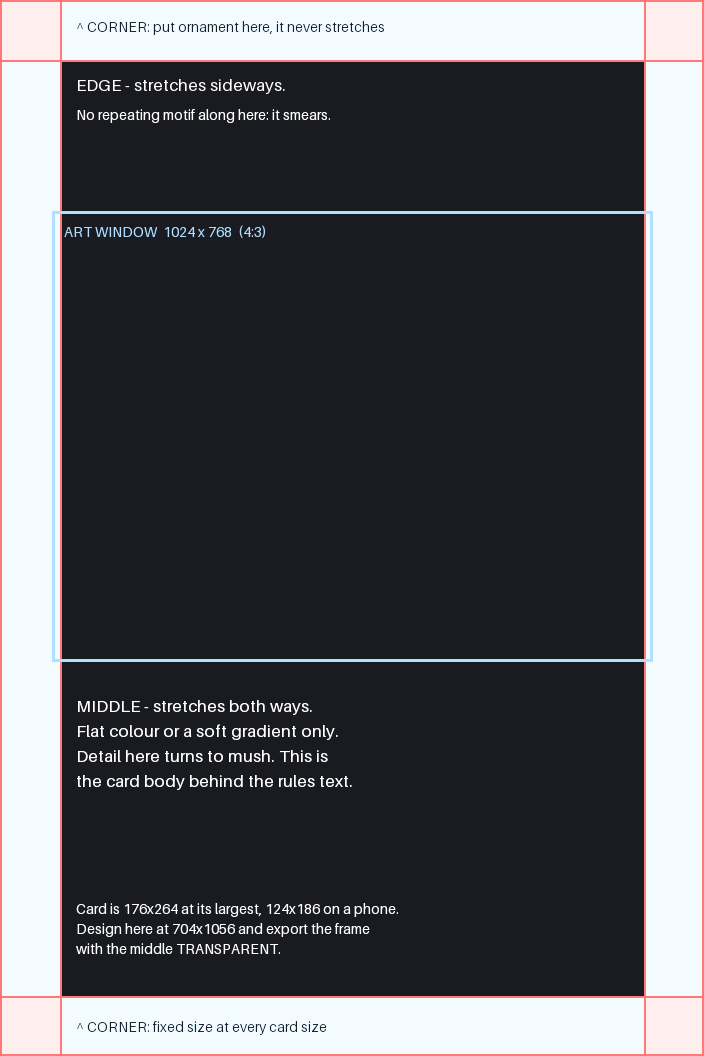
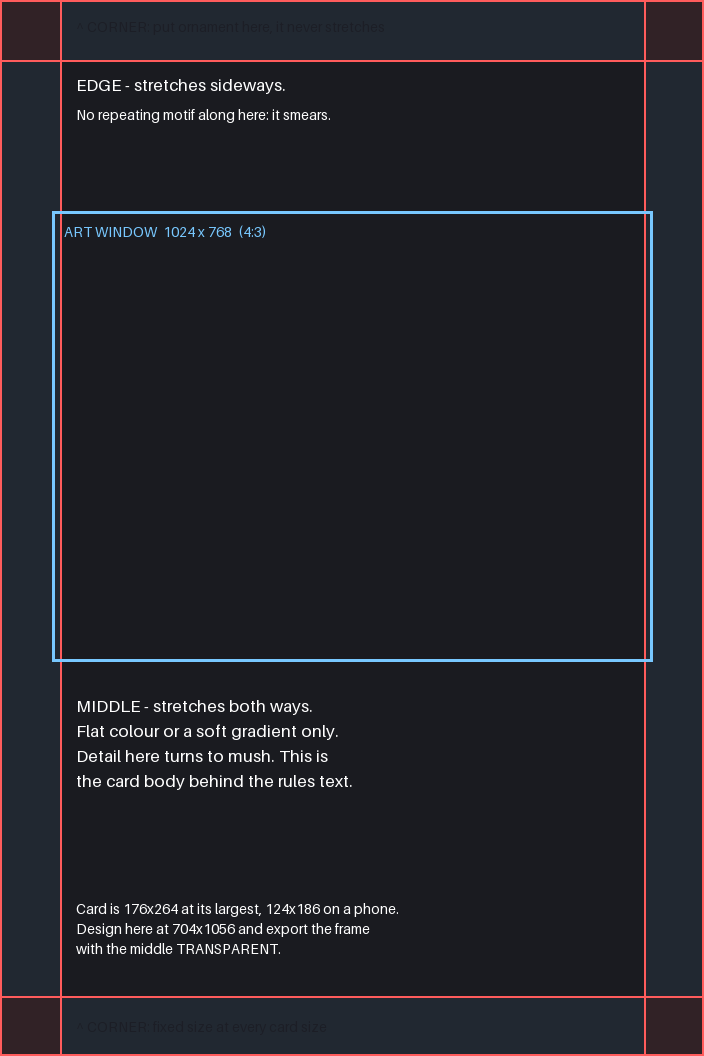
Make the frame template opaque — the "blank space" was transparency, not size
Nick said the template did not fill his canvas. He was told twice that his
canvas was the wrong size: first from the aspect, then from the design's
TITLE, which in Canva is a name generated at creation and does not update on
resize. Both wrong, and the second was reading a name as a live readout.

The actual bug was here. The guide bands were drawn as RGBA with alpha 20 and
26 on the assumption ImageDraw would composite them onto the dark background.
It does not — it writes the value in, alpha included. So the top and bottom of
the template were 92% TRANSPARENT: invisible in a viewer that composites over
white, and in Canva showing the white page through them, which looks exactly
like empty canvas.

Same tints, pre-blended by hand, and the file is flattened to RGB so there is
no transparency anywhere in a guide whose whole job is to show where the edges
are.

Changed region(s): [[0.0, 0.0, 1.0, 1.0]]

diff --git a/tools/blender/frame_template.py b/tools/blender/frame_template.py
@@ -46,10 +46,23 @@ ART_ASPECT = 0.75                # must match card_view.CARD_ART_ASPECT
 W, H = OUT_W, OUT_H
 M = int(round(MARGIN * SCALE))
 
-GUIDE = (255, 92, 92, 210)
-SOFT = (120, 200, 255, 150)
-FILL_CORNER = (255, 92, 92, 26)
-FILL_EDGE = (120, 200, 255, 20)
+## OPAQUE, every one of them, and this is the whole of a bug worth remembering.
+##
+## The bands were written as RGBA with alpha 20 and 26, on the assumption that
+## ImageDraw would composite them onto the dark background. It does not — it
+## writes the value straight in, alpha included. So the top and bottom of the
+## guide came out 92% TRANSPARENT, which looks like nothing at all in a viewer
+## that composites over white, and in Canva shows the white page through it.
+## Nick reported it as "blank space on the canvas" and was told twice, wrongly,
+## that his canvas was the wrong size.
+##
+## These are the same tints, pre-blended against the background by hand, so
+## nothing is left to composite.
+BG = (26, 27, 32, 255)
+GUIDE = (255, 92, 92, 255)
+SOFT = (120, 200, 255, 255)
+FILL_CORNER = (49, 34, 38, 255)
+FILL_EDGE = (33, 40, 49, 255)
 INK = (255, 255, 255, 235)
 DIM = (255, 255, 255, 130)
 ## The two corner callouts sit ON the pale edge band, not on the dark body,
@@ -77,7 +90,7 @@ def main():
     here = os.path.dirname(os.path.abspath(__file__))
     out = os.path.normpath(os.path.join(here, "..", "..", "design",
                                         "card-frame-template.png"))
-    im = Image.new("RGBA", (W, H), (26, 27, 32, 255))
+    im = Image.new("RGBA", (W, H), BG)
     d = ImageDraw.Draw(im, "RGBA")
 
     # the four corners — the safe places for ornament
@@ -131,6 +144,9 @@ def main():
                      "with the middle TRANSPARENT."
                      % (CARD_W, CARD_H, 124, 186, W, H),
                      fill=DIM, font=small, spacing=6)
+    # Flatten. A guide with any transparency in it is indistinguishable
+    # from empty canvas the moment it is placed on a white page.
+    im = im.convert("RGB")
     im.save(out)
     print("TEMPLATE %s  (%dx%d, 9-slice margin %dpx at card size)"
           % (out, W, H, MARGIN))
